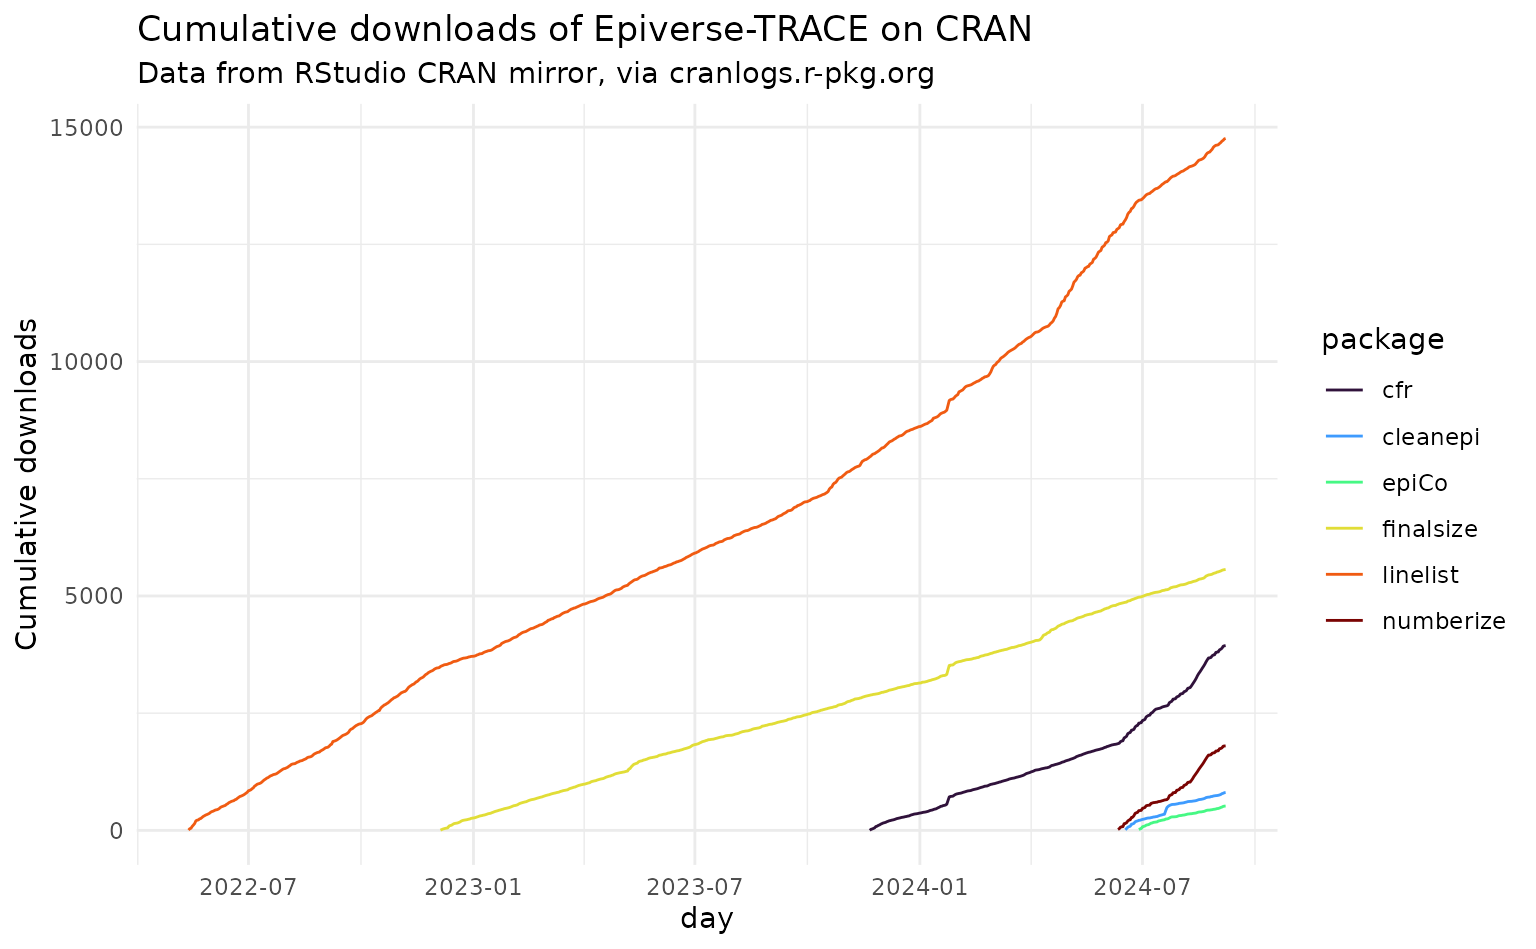
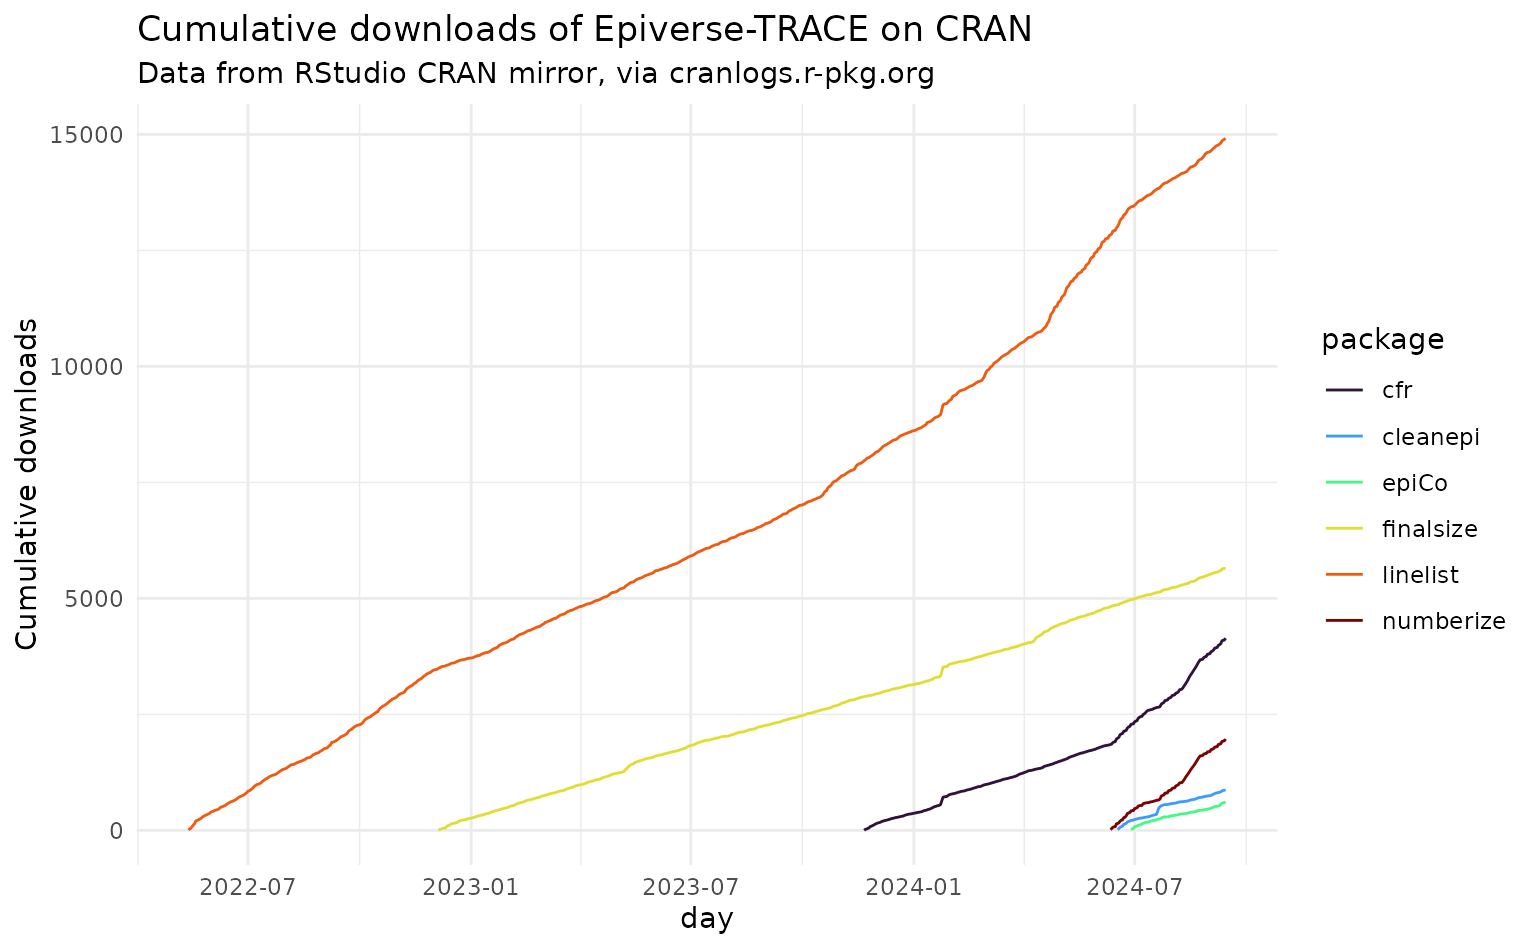
Deploying to gh-pages from @ epiverse-trace/etstats@2e50bc9723da1bd02d1125437f09f2ce89f599f3 🚀

diff --git a/articles/cran-statistics.html b/articles/cran-statistics.html
@@ -74,7 +74,7 @@
 
       <h1>CRAN statistics</h1>
             
-            <h4 data-toc-skip class="date">2024-09-09</h4>
+            <h4 data-toc-skip class="date">2024-09-16</h4>
       
       <small class="dont-index">Source: <a href="https://github.com/epiverse-trace/etstats/blob/main/vignettes/cran-statistics.Rmd" class="external-link"><code>vignettes/cran-statistics.Rmd</code></a></small>
       <div class="d-none name"><code>cran-statistics.Rmd</code></div>
@@ -91,7 +91,7 @@
 <li><a href="https://cran.r-project.org/package=linelist" class="external-link">linelist</a></li>
 <li><a href="https://cran.r-project.org/package=finalsize" class="external-link">finalsize</a></li>
 </ul>
-<p>In total, Epiverse-TRACE packages on CRAN have been downloaded 27392
+<p>In total, Epiverse-TRACE packages on CRAN have been downloaded 28146
 times.</p>
 <p>Below is a visualization of the breakdown of this grand total by
 package over time.</p>
@@ -108,43 +108,43 @@ package over time.</p>
 <td align="left">finalsize</td>
 <td align="right">260</td>
 <td align="right">2881</td>
-<td align="right">2424</td>
+<td align="right">2509</td>
 </tr>
 <tr class="even">
 <td align="left">linelist</td>
 <td align="right">3712</td>
 <td align="right">4898</td>
-<td align="right">6149</td>
+<td align="right">6303</td>
 </tr>
 <tr class="odd">
 <td align="left">cfr</td>
 <td align="right">NA</td>
 <td align="right">364</td>
-<td align="right">3577</td>
+<td align="right">3778</td>
 </tr>
 <tr class="even">
 <td align="left">cleanepi</td>
 <td align="right">NA</td>
 <td align="right">NA</td>
-<td align="right">807</td>
+<td align="right">869</td>
 </tr>
 <tr class="odd">
 <td align="left">epiCo</td>
 <td align="right">NA</td>
 <td align="right">NA</td>
-<td align="right">518</td>
+<td align="right">604</td>
 </tr>
 <tr class="even">
 <td align="left">numberize</td>
 <td align="right">NA</td>
 <td align="right">NA</td>
-<td align="right">1802</td>
+<td align="right">1968</td>
 </tr>
 <tr class="odd">
 <td align="left">Total</td>
 <td align="right">3972</td>
 <td align="right">8143</td>
-<td align="right">15277</td>
+<td align="right">16031</td>
 </tr>
 </tbody>
 </table></main>

diff --git a/articles/github-statistics.html b/articles/github-statistics.html
@@ -74,7 +74,7 @@
 
       <h1>GitHub statistics</h1>
             
-            <h4 data-toc-skip class="date">2024-09-09</h4>
+            <h4 data-toc-skip class="date">2024-09-16</h4>
       
       <small class="dont-index">Source: <a href="https://github.com/epiverse-trace/etstats/blob/main/vignettes/github-statistics.Rmd" class="external-link"><code>vignettes/github-statistics.Rmd</code></a></small>
       <div class="d-none name"><code>github-statistics.Rmd</code></div>
@@ -94,8 +94,8 @@ followers.</p>
 <div class="section level3">
 <h3 id="totals">Totals<a class="anchor" aria-label="anchor" href="#totals"></a>
 </h3>
-<p>In total, we have 198 stars across all Epiverse-TRACE packages. These
-stars come from 119 unique users.</p>
+<p>In total, we have 199 stars across all Epiverse-TRACE packages. These
+stars come from 120 unique users.</p>
 <p><img src="github-statistics_files/figure-html/unnamed-chunk-5-1.png" width="768"></p>
 </div>
 <div class="section level3">
@@ -240,7 +240,7 @@ stars come from 119 unique users.</p>
 <td align="left">sivirep</td>
 <td align="right">0</td>
 <td align="right">21</td>
-<td align="right">7</td>
+<td align="right">8</td>
 </tr>
 <tr class="odd">
 <td align="left">vaccineff</td>
@@ -264,7 +264,7 @@ stars come from 119 unique users.</p>
 <td align="left">Total</td>
 <td align="right">24</td>
 <td align="right">89</td>
-<td align="right">85</td>
+<td align="right">86</td>
 </tr>
 </tbody>
 </table>
